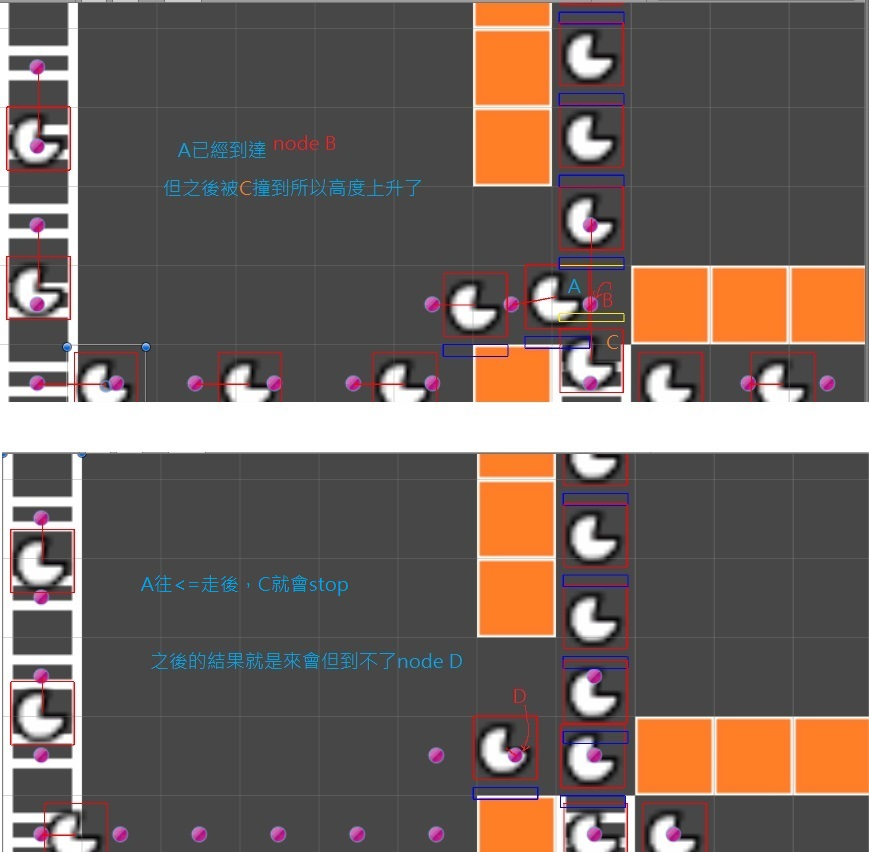
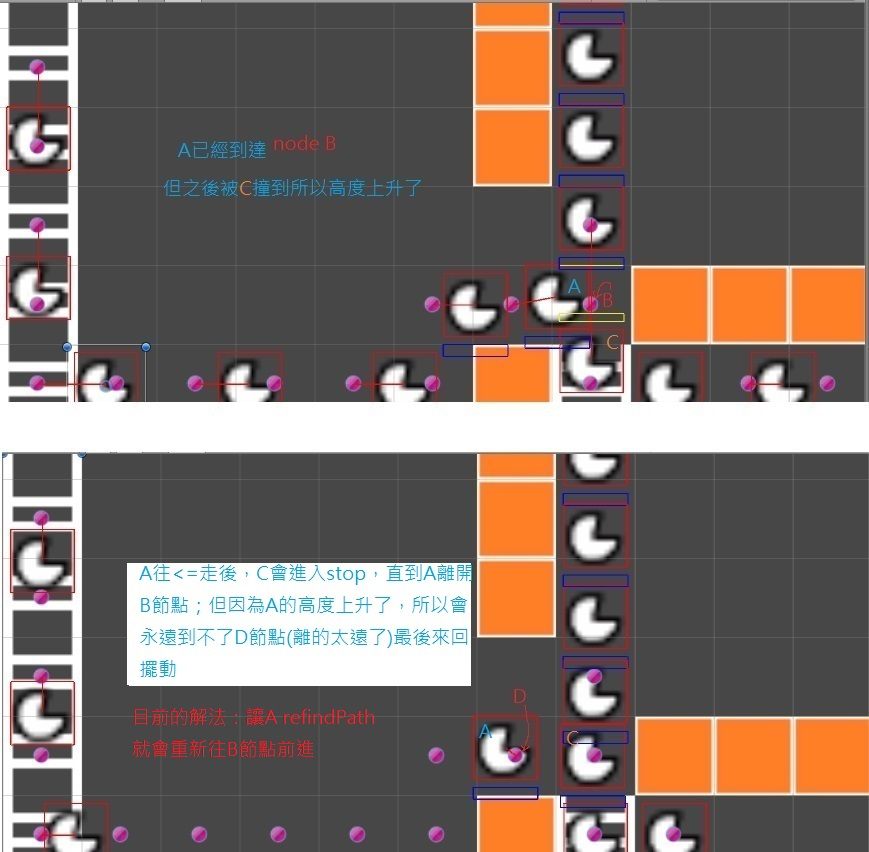
Edit the ScreenShoot

Changed region(s): [[0.1243, 0.6408, 0.5593, 0.9155], [0.6525, 0.8545, 0.6835, 0.885], [0.6525, 0.3052, 0.6835, 0.3357]]

diff --git a/Assets/script/Controller/LodeRunner/AIMoveController.cs b/Assets/script/Controller/LodeRunner/AIMoveController.cs
@@ -165,7 +165,6 @@ public class AIMoveController : MonoBehaviour
     void clearWaitAI( ) { waitThisAI = null; }
     void sendMove(Vector2 dir)
     {
-        
         if (Mathf.Abs(dir.x) > Mathf.Abs(dir.y))
         {
             //左右移動
@@ -228,7 +227,8 @@ public class AIMoveController : MonoBehaviour
                 {
                     bool aiWaitButNotForMe = ai.getSM().getCurrentState() == AIWaitState.Instance() && ai.getWaitAI() != this;
 
-                    //有可能發生ai.movable.getSM().getCurrentState() == NormalState
+                    //為何要判斷stopAndOnLadder
+                    //LodeRunnerScreenshot\fixed\互等的情況.jpg
                     bool stopAndOnLadder = ai.getMoveCommand() == MoveCommand.stop && ai.movable.getSM().getCurrentState() == Movable.OnLabberState.Instance();                    
                     bool fitCommand = ai.getMoveCommand() == MoveCommand.up
                         || ai.getMoveCommand() == MoveCommand.left
@@ -242,7 +242,7 @@ public class AIMoveController : MonoBehaviour
                         if (Debug_Oncoming)
                             printDebugMsg("碰到了，記得要refindPath阿");
 
-                        ai.getSM().handleMessage(new StateMsg((int)AIMsg.waitForSomebody, null, this));
+                        ai.getSM().handleMessage(new StateMsg((int)AIMsg.reFindPath));
                     }
 
                     handleTooClose(ai, stopMoveSituation, movable.sendMsgMoveUp);
@@ -562,7 +562,11 @@ public class AIMoveController : MonoBehaviour
 
         public override void execute(AIMoveController obj)
         {
-            obj.showNowState("AI Move ("+obj.getNowPathIndex ()+ ")");
+            GraphNode node = obj.getNowTarget(); ;
+            if(node!=null)
+                obj.showNowState("AI Move ["+obj.getNowPathIndex ()+ "]("+ node.nodeKey+")");
+            else
+                obj.showNowState("AI Move[" + obj.getNowPathIndex() + "]");
 
             obj.moveByPath();
             if (obj.getSM().getCurrentState() != this)//moveByPath有可能觸發狀態的改變(由Movable通知)
